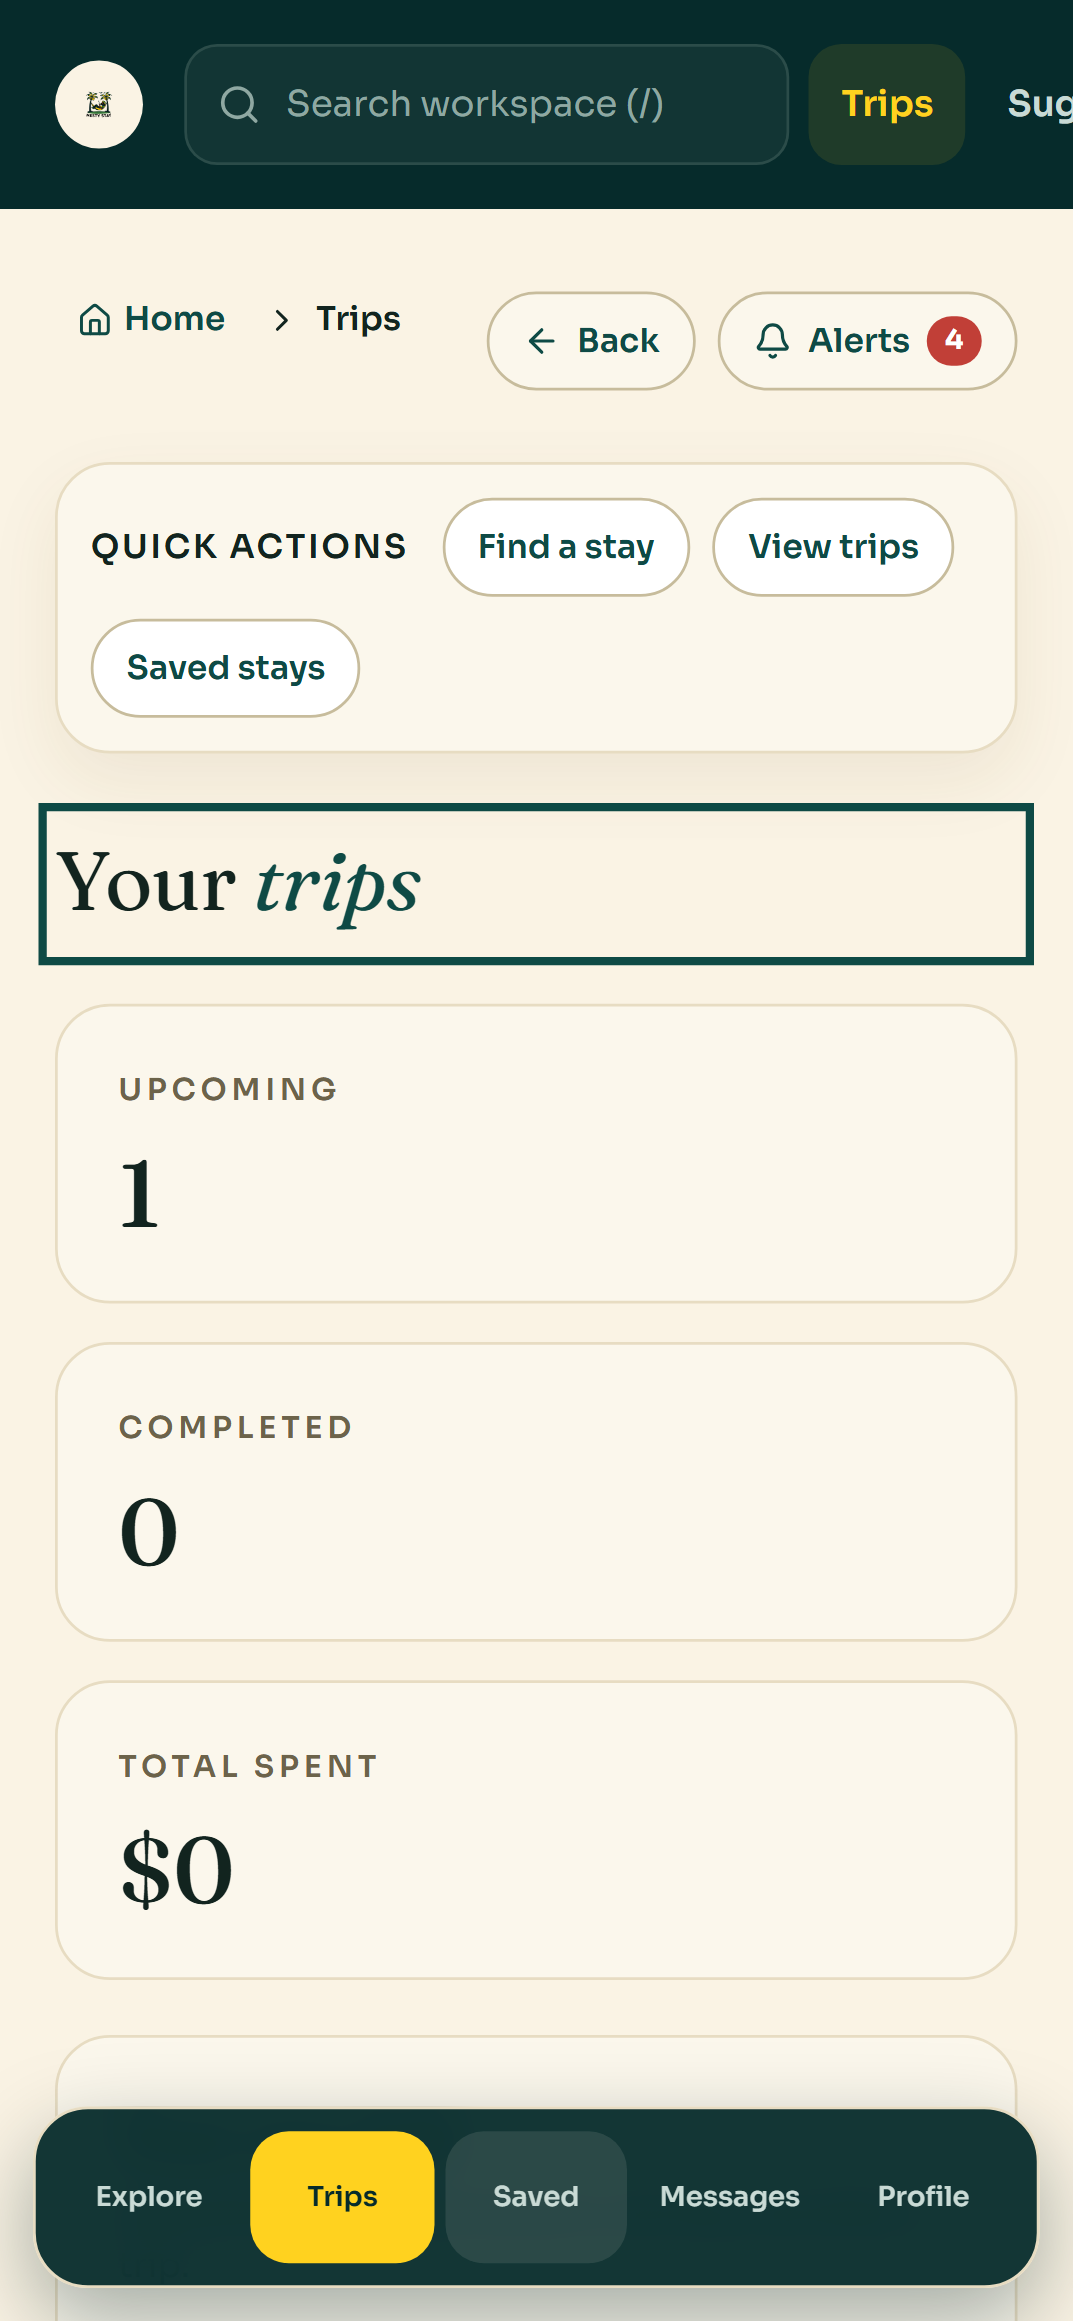
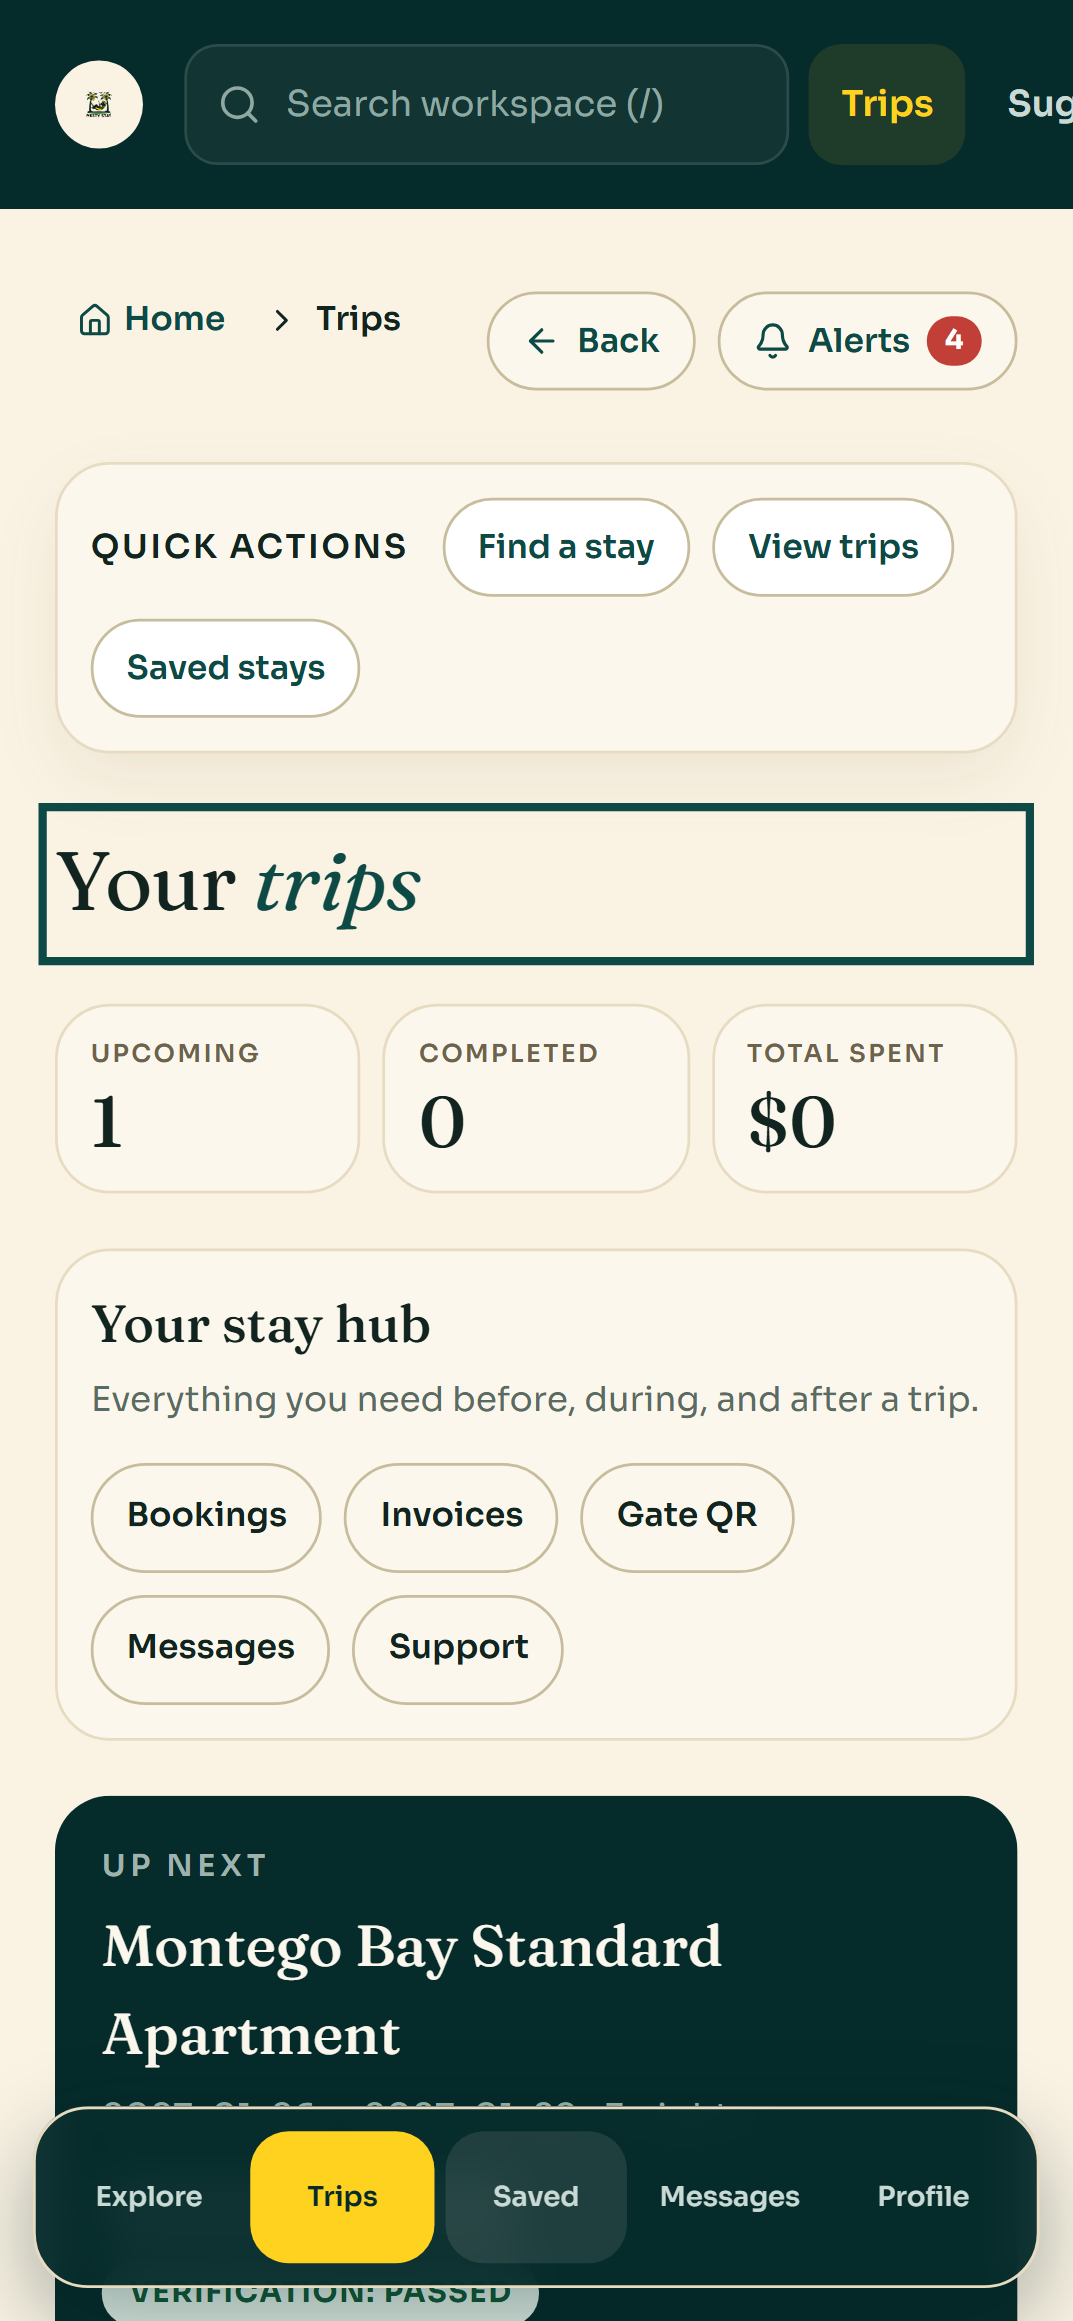
fix: tighten guest trip cards on mobile

diff --git a/frontend/src/features/traveler/TravelerDashboard.tsx b/frontend/src/features/traveler/TravelerDashboard.tsx
@@ -12,7 +12,7 @@ interface TravelerDashboardProps {
 }
 
 const outlinePill =
-  "inline-flex min-h-[46px] items-center self-start rounded-pill border-[1.5px] border-sand-input px-5 font-sans text-[13.5px] font-semibold text-ink transition-colors hover:border-deep";
+  "inline-flex min-h-10 items-center self-start rounded-pill border-[1.5px] border-sand-input px-3 font-sans text-[12px] font-semibold text-ink transition-colors hover:border-deep sm:min-h-[46px] sm:px-5 sm:text-[13.5px]";
 
 function isFinished(booking: Booking) {
   return new Date(booking.checkOut).getTime() < Date.now();
@@ -79,7 +79,7 @@ export function TravelerDashboard({ userId: _userId, token }: TravelerDashboardP
       </h1>
 
       {/* Stat cards */}
-      <div className="grid grid-cols-[repeat(auto-fit,minmax(190px,1fr))] gap-3.5">
+      <div className="grid grid-cols-3 gap-2 sm:grid-cols-[repeat(auto-fit,minmax(190px,1fr))] sm:gap-3.5">
         {(
           [
             ["UPCOMING", String(upcoming.length)],
@@ -87,14 +87,14 @@ export function TravelerDashboard({ userId: _userId, token }: TravelerDashboardP
             ["TOTAL SPENT", formatMoney(totalSpent, currency)],
           ] as const
         ).map(([label, value]) => (
-          <div className="flex flex-col gap-3 rounded-card border border-sand-border bg-cream p-[22px]" key={label}>
-            <div className="text-[11px] font-semibold tracking-[0.16em] text-sand-500">{label}</div>
-            <div className="font-display text-[34px] font-medium leading-none">{value}</div>
+          <div className="flex min-w-0 flex-col gap-1.5 rounded-card border border-sand-border bg-cream p-3 sm:gap-3 sm:p-[22px]" key={label}>
+            <div className="break-words text-[9px] font-semibold leading-tight tracking-[0.1em] text-sand-500 sm:text-[11px] sm:tracking-[0.16em]">{label}</div>
+            <div className="break-words font-display text-[26px] font-medium leading-none sm:text-[34px]">{value}</div>
           </div>
         ))}
       </div>
 
-      <section aria-labelledby="traveler-shortcuts-heading" className="rounded-card border border-sand-border bg-cream p-[22px]">
+      <section aria-labelledby="traveler-shortcuts-heading" className="rounded-card border border-sand-border bg-cream p-3 sm:p-[22px]">
         <div className="flex flex-wrap items-center justify-between gap-3">
           <div>
             <h2 className="m-0 font-display text-[19px] font-medium" id="traveler-shortcuts-heading">Your stay hub</h2>
@@ -111,10 +111,10 @@ export function TravelerDashboard({ userId: _userId, token }: TravelerDashboardP
       </section>
 
       {nextTrip && (
-        <section aria-labelledby="traveler-next-trip-heading" className="grid gap-4 rounded-card border border-deep/20 bg-deep p-5 text-on-dark-heading md:grid-cols-[1fr_auto] md:items-center">
+        <section aria-labelledby="traveler-next-trip-heading" className="grid gap-3 rounded-card border border-deep/20 bg-deep p-4 text-on-dark-heading sm:gap-4 sm:p-5 md:grid-cols-[1fr_auto] md:items-center">
           <div>
             <div className="text-[11px] font-semibold tracking-[0.16em] text-on-dark-muted">UP NEXT</div>
-            <h2 className="m-0 mt-1 font-display text-[25px] font-medium" id="traveler-next-trip-heading">{nextTrip.propertyTitle ?? "Your Jamaican stay"}</h2>
+            <h2 className="m-0 mt-1 font-display text-[21px] font-medium sm:text-[25px]" id="traveler-next-trip-heading">{nextTrip.propertyTitle ?? "Your Jamaican stay"}</h2>
             <p className="m-0 mt-1 text-[13px] text-on-dark-muted">{nextTrip.checkIn} → {nextTrip.checkOut} · {nextTrip.nights} night{nextTrip.nights === 1 ? "" : "s"}</p>
             <div className="mt-3 flex flex-wrap gap-1.5">
               <StatusChip label="Booking" value={nextTrip.status} />
@@ -122,7 +122,7 @@ export function TravelerDashboard({ userId: _userId, token }: TravelerDashboardP
               <StatusChip label="Payment" value={nextTrip.paymentStatus} />
             </div>
           </div>
-          <AppLink className="inline-flex min-h-[46px] items-center justify-center rounded-pill bg-yellow px-5 font-sans text-[13.5px] font-semibold text-deep transition-colors hover:bg-yellow-press" href={`/booking/${nextTrip.id}/${needsVerification(nextTrip) ? "pending" : "success"}`}>
+          <AppLink className="inline-flex min-h-10 items-center justify-center rounded-pill bg-yellow px-4 font-sans text-[12px] font-semibold text-deep transition-colors hover:bg-yellow-press sm:min-h-[46px] sm:px-5 sm:text-[13.5px]" href={`/booking/${nextTrip.id}/${needsVerification(nextTrip) ? "pending" : "success"}`}>
             Open trip
           </AppLink>
         </section>
@@ -146,13 +146,13 @@ export function TravelerDashboard({ userId: _userId, token }: TravelerDashboardP
           const resume = needsVerification(booking);
           const timeline = (booking as Booking & { timeline?: string[] }).timeline ?? [];
           return (
-            <div className="flex flex-col gap-3 rounded-card border border-sand-border bg-cream p-[22px]" key={booking.id}>
-              <div className="flex flex-wrap items-start gap-3.5">
-                <img alt="" className="block size-24 shrink-0 rounded-field object-cover" src={image.src} />
-                <div className="min-w-[220px] flex-1">
+            <div className="flex flex-col gap-3 rounded-card border border-sand-border bg-cream p-3 sm:p-[22px]" key={booking.id}>
+              <div className="flex flex-wrap items-start gap-2.5 sm:gap-3.5">
+                <img alt="" className="block size-20 shrink-0 rounded-field object-cover sm:size-24" src={image.src} />
+                <div className="min-w-0 flex-1 sm:min-w-[220px]">
                   <div className="flex flex-wrap items-baseline justify-between gap-2.5">
                     <div className="font-display text-[19px] font-medium">{booking.propertyTitle ?? "Jamaican stay"}</div>
-                    <span className="font-mono text-[11.5px] text-sand-500">NSTY-BK-{booking.id.slice(0, 8).toUpperCase()}</span>
+                    <span className="break-all font-mono text-[10px] text-sand-500 sm:text-[11.5px]">NSTY-BK-{booking.id.slice(0, 8).toUpperCase()}</span>
                   </div>
                   <div className="text-[12.5px] text-gray-600">
                     {booking.checkIn} → {booking.checkOut} · {booking.nights} night{booking.nights === 1 ? "" : "s"} ·{" "}
